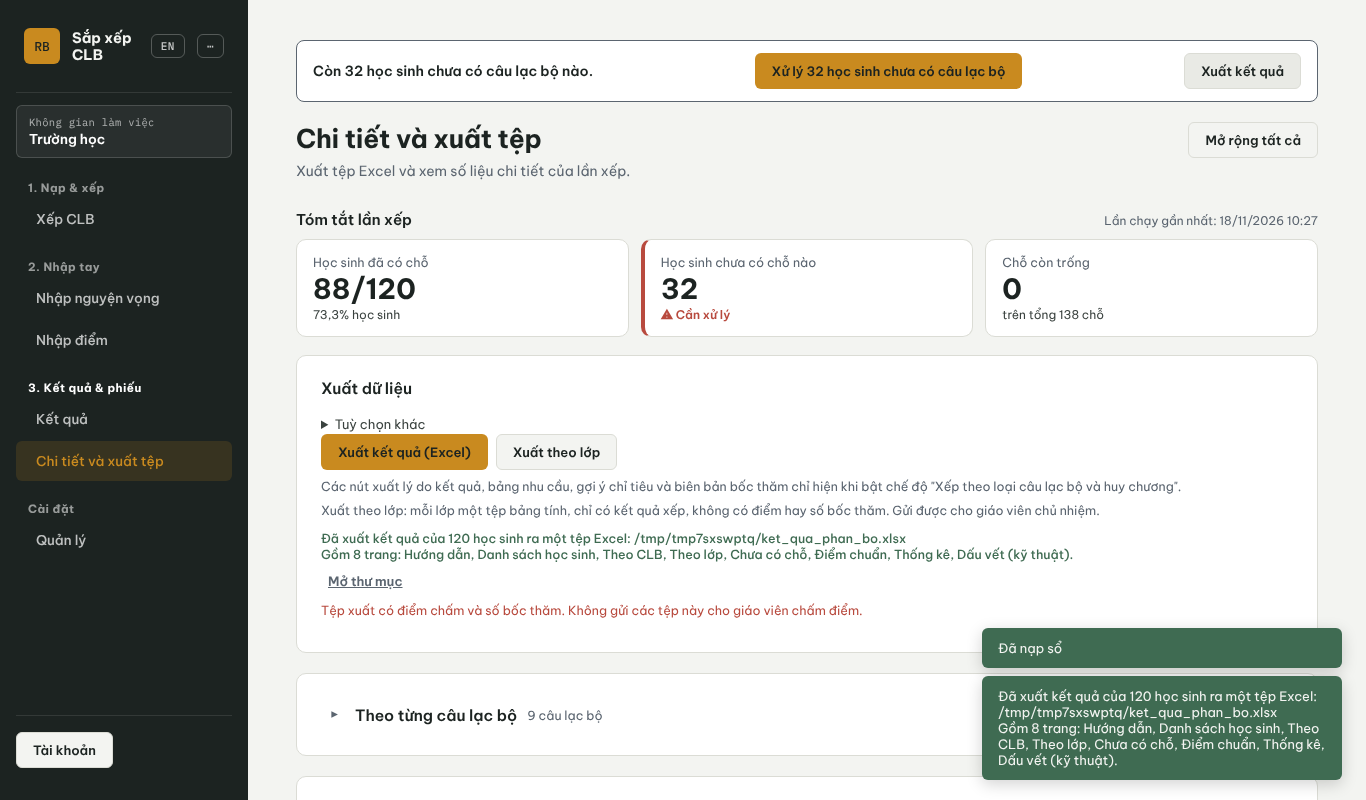
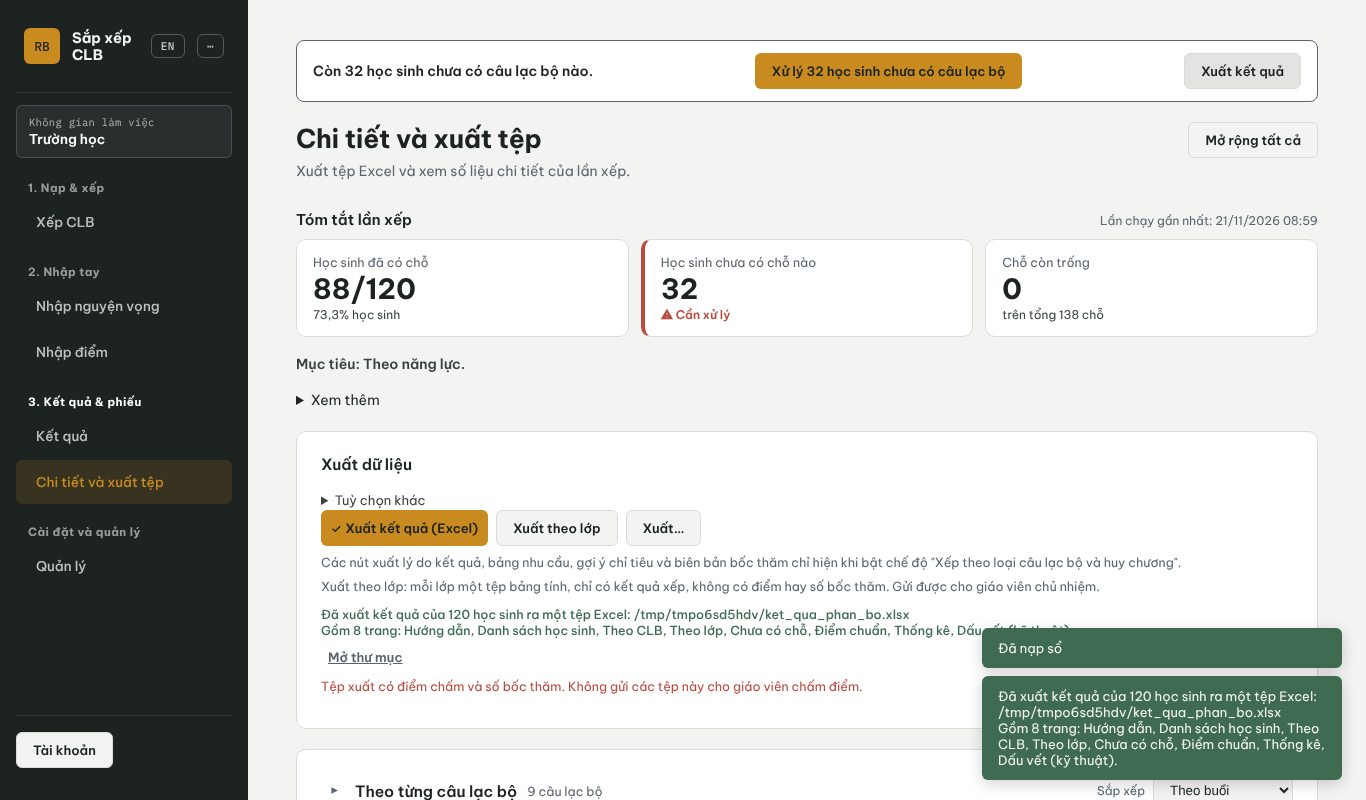
UX2-L9 (WIP, kiểm chứng chưa xong): hướng dẫn, bản đồ mã, 14 ảnh chụp lại, handoff
Claude-Session: https://claude.ai/code/session_01VfPzNrAmRdig3chvfTGSSu

diff --git a/docs/phien/claude__ux2-phan-hoi-nut__impl.md b/docs/phien/claude__ux2-phan-hoi-nut__impl.md
@@ -19,18 +19,25 @@ schema change (invariants 1, 6, 7). I do lots L1..L9 on lead's "GO L<n>" / "FIX"
 - [x] L5 #11 four-phase progress (UX2_PHA)                    PASSED (+fix1 backup warning)
 - [x] L6 #12 guided empty states (veTrangThaiRong)            PASSED (291deb8 + fix1 788709f)
 - [x] L7 #6 skeleton loading (hienKhungCho)                   PASSED (b00b9e3)
-- [x] L8 #10 smooth transitions (ux2QuanSatBang, ux2Abre)    DONE fef2862 + fix1 a71baec (only genuinely new rows), reported, checker verdict pending
-- [ ] L9 docs / screenshots / verify (spec: lead's branch file; ONLY lot left)
+- [x] L8 #10 smooth transitions (ux2QuanSatBang, ux2Abre)    PASSED (fef2862 + fix1 a71baec)
+- [~] L9 docs / screenshots / verify: content WRITTEN + committed as WIP, verification NOT finished (see Current state)
 
 ## Current state (overwrite each handoff)
-- Done: L1-L8 committed + pushed; last code commit a71baec (L8 fix1). origin/main (MT1) merged earlier (75f99ed).
-  Working tree clean after the handoff push.
-- In progress: nothing. Waiting for lead: checker verdict on L8 fix1 and "GO L9" (the only lot left).
-- Tests: related ones only (never the 22-min full suite); redirect pytest output to a scratchpad file.
-  Last (L8 fix1): 182 passed (all ux2_*, quan_ly_tab_con, a13_8, a14_lop, t3_l0, chay, fa_n2, cham_diem, hieu_ung, ux1_ket_qua),
-  ruff clean, kiem_nhanh.py --co-so origin/main --so-seed 20 7/7.
-- Open problems: admin-student rows are rebuilt on every redraw so focus/caret in .lop-sua is lost (pre-existing, told to lead,
-  would be a separate item touching loadAdminStudents).
+- L9 (lead said GO L9, base 816e92c) is IN PROGRESS. Written and committed (WIP commit, not yet reported "CODER DONE L9"):
+  HUONG_DAN_SU_DUNG.md new section (end of section 4), docs/ke_hoach/CLAUDE_CHI_TIET.md code-map row + tests/ count 360->369
+  (test_a13_12_tai_lieu.py demands the exact count; backticked names must be top-level `function`/def names, so no const / nested names),
+  14 screenshots re-shot with docs/ke_hoach/ux/chup_luong_chinh.py into docs/ke_hoach/ux/anh/ (all 14 that script writes changed),
+  CHANGELOG.md UX2-L9 entry, TIEN_DO.md row UX2-L9, Plan L9 ticked in the lead's branch file.
+- RUNNING when this handoff was written (background, started ~08:50 machine time): full UI sweep
+  `PLAYWRIGHT_BROWSERS_PATH=/opt/pw-browsers .venv/bin/python -m pytest -q tests/test_giao_dien_*.py tests/test_*ux2*.py`
+  -> output in the scratchpad file full.txt (ends with a line "done"). It takes ~20+ min. A fresh session may have lost that file:
+  then just rerun it. The L9 spec says: run it ONCE and report.
+- Still TO DO for L9: (1) read the sweep result and fix real failures (test first); (2) `.venv/bin/ruff check .`;
+  (3) `.claude/skills/soat-ma/scripts/kiem_nhanh.py --co-so origin/main --so-seed 20` must be 7/7; (4) tests/test_a13_12_tai_lieu.py,
+  test_vi_du_huong_dan.py, test_giao_dien_tieng_viet_sach.py (docs tests, were green); (5) amend CHANGELOG line "kết quả trong báo cáo L9"
+  with the numbers; (6) push; (7) send "CODER DONE L9 | base 816e92c head <sha>" to the lead with: sweep result, list of 14 re-shot PNGs.
+- Earlier lots: L1-L8 all PASSED by the checker. Open note for lead: admin-student rows are rebuilt on redraw so focus/caret in .lop-sua
+  is lost (pre-existing; separate item if wanted).
 
 ## Decisions and gotchas (keep short)
 - Helpers live in js/00_nen.js: datNutBan (busy), nutDaXong/goDauXong (check mark), baoLoiTaiO/xoaLoiTaiO/focusODau/baoLoiForm
@@ -63,14 +70,12 @@ schema change (invariants 1, 6, 7). I do lots L1..L9 on lead's "GO L<n>" / "FIX"
 - Stop hook "uncommitted changes": commit a clearly labelled WIP and push; only report "CODER DONE" when tests are green.
 
 ## Next steps (ordered)
-1. Wait for lead: checker verdict on L8 fix1 (FIX L8 -> test first, minimal fix, related tests, report "CODER DONE L6 fixN").
-2. On "GO L9": pull + merge origin/main, read the L9 block.
-3. L9 docs + screenshots (HUONG_DAN_SU_DUNG.md section,
-   re-shoot docs/ke_hoach/ux/anh/, CLAUDE_CHI_TIET.md code map, kiem_nhanh 7/7, CHANGELOG + TIEN_DO rows).
+1. Finish L9 verification exactly as listed under Current state (sweep result, ruff, kiem_nhanh, docs tests), then report to the lead.
+2. After that wait for the checker verdict on L9 (FIX L9 -> test first, minimal fix, related tests, report "CODER DONE L9 fixN").
 4. Each lot: failing test first -> minimal code -> related tests -> ruff -> kiem_nhanh 7/7 -> CHANGELOG + TIEN_DO row `UX2-L<n>` ->
    tick Plan in the lead's branch file only if lead asks (lead ticks) -> commit -> push -> message lead.
 
-## Files touched (whole job so far)
+## Files touched (whole job so far; L9 adds HUONG_DAN_SU_DUNG.md, docs/ke_hoach/CLAUDE_CHI_TIET.md, docs/ke_hoach/ux/anh/*.png x14)
 - js/00_nen.js: all shared helpers above + langchange listeners
 - js/02_van_hanh.js: btnRun busy via datNutBan; UX2_PHA / ux2TinhPha / ux2VePha; seed inline error
 - js/03_ket_qua.js, 05_quan_ly.js, 06_cham_diem.js, 04_nhap_tai_cho.js, 09_the_xem.js, 10_theo_doi.js, 14_giai_trinh.js: check-mark wiring,
@@ -88,3 +93,4 @@ schema change (invariants 1, 6, 7). I do lots L1..L9 on lead's "GO L<n>" / "FIX"
 | 2026-11-21 | Sonnet (coder) | L7 skeleton loading built + reported; handoff refreshed (hook fired again) | head b00b9e3 |
 | 2026-11-21 | Sonnet (coder) | L8 smooth transitions built + reported; merged origin/main (MT1); handoff refreshed | head fef2862 |
 | 2026-11-21 | Sonnet (coder) | L8 fix1 (animate only genuinely new rows) reported; handoff refreshed | head a71baec |
+| 2026-11-21 | Sonnet (coder) | L9 docs + 14 screenshots + code map written, WIP-committed; full UI sweep running; handoff (hook fired mid-L9) | WIP, see git log |

diff --git a/docs/ke_hoach/CLAUDE_CHI_TIET.md b/docs/ke_hoach/CLAUDE_CHI_TIET.md
@@ -28,7 +28,8 @@
 | `js/01_khung.js` (UX1A-L2), `js/17_viec_tiep_theo.js` (L1), `js/18_cai_dat.js` (L2b) | UX1 điều hướng và cài đặt: 4 nhóm thanh bên (`capNhatNhomDieuHuong`, nhóm tự ẩn theo thuộc tính hidden / vai giáo viên; mọi `.nav-item[data-tab]` giữ nguyên); thanh "Việc tiếp theo" `#viecTiepTheo` (`capNhatViecTiepTheo`, 5 trạng thái, nút phụ `#viecTiepTheoNut2`); Cài đặt = ba thẻ (`ux1aTaoThe` dùng chung ở trang Cài đặt, mục ⋯ "Cài đặt…" và bước 3 trình tạo workspace; `ux1aVeCaiDatSong` lưu ngay + Hoàn tác; sửa tại chỗ `ux1aVeSanSang`; việc sau khi xếp `ux1aVeSauXep` ở thẻ Chi tiết, chỉ chế độ huy chương) | `ux1aTaoThe`, `ux1aVeCaiDatSong`, `ux1aKiemSanSang`, `ux1aVeSauXep`, `capNhatViecTiepTheo` |
 | `api_quan_ly.py` (UX1A-L2b) | `get_san_sang_huy_chuong` (đọc: CLB thiếu loại, buổi thiếu CLB Tự do, thiếu điểm sàn) · `dat_loai_clb` (ghi một CLB, dùng lại hàm ghi_thuoc_tinh_clb của fa_daa); cả hai trong `phan_quyen.py` | `get_san_sang_huy_chuong`, `dat_loai_clb` |
 | `so_nhap.py`, `api_nhap.py` (UX1A-L5, L5b) | Chỉ thông điệp và lớp đọc: `xem_truoc_so_nhap` nói sổ có cột Huy chương/Loại mà chế độ tắt (mã cảnh báo so_nhap_canh_bao_huy_chuong_che_do_tat, cờ co_cot_huy_chuong của dữ liệu đọc); `so_nhap.chuan_hoa_chu_huy_chuong` đổi Vàng/Bạc/Đồng về 60/30/10 khi chế độ huy chương (fa_daa) bật; `tao_so_nhap_mau(output_path, kieu)` | `chuan_hoa_chu_huy_chuong`, `tao_so_nhap_mau` |
-| `tests/` | 360 tệp `test_*.py` (đếm 21/11/2026, nhánh claude/mt1-xuat-so-nhap-loai; UX1A thêm 5 tệp `test_giao_dien_ux1_*.py`, `test_ux1_*.py`; UX1B thêm `test_ux1b_*.py`, `test_giao_dien_ux1b_*.py`; XP1 thêm `test_xp1_*.py`, `test_giao_dien_xp1_*.py`; tích hợp UX1I thêm `test_ux1i_*.py`; MT1 và MT1-X1 thêm `test_mt1_*.py`) | `test_pipeline_core.py`, `test_nhieu_buoi.py::TestTrungKhit`, `test_toi_uu_on_dinh.py`, `test_boc_tham.py`, … |
+| `js/00_nen.js`, `js/02_van_hanh.js`, `js/07_ngon_ngu.js`, `js/08_khoi_dong.js`, `js/16_tai_khoan.js`, `index.html`, `i18n.js`, `style.css` (khối "UX2") | UX2 phản hồi tương tác (chỉ giao diện, không đụng thuật toán / api / CSV / schema): nút bận + chống bấm đúp MỘT chỗ (`datNutBan`, dùng bởi `chayNut`, `khiBan` và nút Chạy), dấu ✓ sau khi lưu / xuất (`nutDaXong`, `goDauXong`, tuỳ chọn xongKhi của `chayNut` / `khiBan`, tham số thứ 4 của `chayXuat`), lỗi ngay tại ô (`baoLoiTaiO`, `xoaLoiTaiO`, `baoLoiForm`, `focusODau`; chữ truyền dạng hàm để vẽ lại khi đổi ngôn ngữ), 4 pha tiến trình chỉ hiển thị (`ux2TinhPha` thuần, `ux2VePha`, `ux2DatPha`; bảng UX2_PHA phải phủ mọi tên bước trong run_pipeline, rollback không bao giờ là "xong"), trạng thái rỗng có hướng dẫn + một nút chính (`veTrangThaiRong`, `ux2VeRong`, `ux2DiToi`, `ux2TenThe`; cấu hình UX2_RONG_* ở từng tệp, tên thẻ lấy từ nav, khác nhau theo vai), khung chờ bảng đang tải (`hienKhungCho`, ngưỡng 300 ms), hàng mới trượt vào (`ux2QuanSatBang`; khoá hàng UX2_KHOA_HANG) | Sự kiện: "langchange" (mọi chữ động phải vẽ lại ở đây) và "ux2vai" (do hàm ganVai (js/16_tai_khoan.js) phát khi đổi vai). Khối CSS đánh dấu "UX2 — L1…L8"; vùng bấm 44 px bằng `::after` trong suốt, vòng focus MỘT nơi (biến --focus-ring). Hàm giúp: `ux2ChoPhepChuyenDong` (tắt hiệu ứng / giảm chuyển động thì không động). Test: xem dòng tests/ |
+| `tests/` | 369 tệp `test_*.py` (đếm 21/11/2026, nhánh claude/ux2-phan-hoi-nut, đã gộp main có MT1; UX1A thêm 5 tệp `test_giao_dien_ux1_*.py`, `test_ux1_*.py`; UX1B thêm `test_ux1b_*.py`, `test_giao_dien_ux1b_*.py`; XP1 thêm `test_xp1_*.py`, `test_giao_dien_xp1_*.py`; tích hợp UX1I thêm `test_ux1i_*.py`; MT1 và MT1-X1 thêm `test_mt1_*.py`; UX2 thêm 9 tệp `test_giao_dien_ux2_*.py` (ban, xong, nut, loi_o, tien_trinh, rong, khung, chuyen_canh) và `test_ux2_tien_trinh.py`) | `test_pipeline_core.py`, `test_nhieu_buoi.py::TestTrungKhit`, `test_toi_uu_on_dinh.py`, `test_boc_tham.py`, … |
 | `du_lieu_test/` (gồm `mo_phong_fa_daa.py`, FA-10: chỉ in bảng số, nhãn "SỐ LIỆU MÔ PHỎNG"), `mau_csv/`, `docs/`, `BAN_GIAO.md` | Bộ dữ liệu mô phỏng, script đo, mẫu nhập, tài liệu cơ chế, nhật ký 25 lỗi đã sửa | |
 | `bao_cao_tong_hop.py` (UX1B-L4-B) · `js/19_ux1b_gv.js` | "Báo cáo tổng hợp" cho ban giám hiệu (chỉ số gộp, không tên/mã/điểm) và khối "Theo lớp và báo cáo" ở thẻ Kết quả | `gom_du_lieu` (danh sách trắng khoá) · `dung_html` (thuần) · `dung_pdf` (UX1I-I3, qua `xuat_pdf.py`); API `export_bao_cao_tong_hop` và `export_bao_cao_tong_hop_pdf` (`api_xuat.py`, `QUYEN` giao_vien, một dòng nhật ký tự động); JS `ux1bMoCaiDat` · `ux1bChonLop` |
 | `api_quan_ly.py` `_huy_chuong_ca_so_sai` (UX1B-L5c) | MỘT nơi giữ ngưỡng "cả sổ sai huy chương" (n_sai × 2 ≥ số học sinh có nguyện vọng); `get_data_health_report` (trường gop_huy_chuong) và `get_san_sang_huy_chuong` (trường huy_chuong_ca_so) cùng dùng | chỉ đổi cách HIỂN THỊ cảnh báo, danh sách cảnh báo và số mục nghiêm trọng giữ nguyên |

diff --git a/HUONG_DAN_SU_DUNG.md b/HUONG_DAN_SU_DUNG.md
@@ -132,6 +132,16 @@ Sửa tay ở mục **Nâng cao** thì không thẻ nào sáng; hiện dòng xá
 không hiện số bốc thăm, cũng không hiện em đó xếp CLB này là nguyện vọng thứ
 mấy. Người chấm không biết cho điểm này thì ai được lợi.
 
+### Phần mềm báo lại thế nào khi bấm, khi sai, khi chờ
+
+- **Nút đang làm việc.** Bấm một nút lưu, xuất hay Chạy thì nút khoá lại ngay, hiện vòng xoay kèm chữ "Đang xử lý…" (nút Chạy ghi "Đang xếp…"), rộng bằng lúc chưa bấm. Bấm đúp chỉ gửi MỘT lần. Làm xong, nút trở về như cũ.
+- **Dấu ✓.** Lưu hoặc xuất xong thì đúng nút vừa bấm hiện dấu ✓ khoảng một giây. Có lỗi thì không có dấu ✓ mà có thông báo.
+- **Lỗi nằm ngay dưới ô sai.** Ô nhập sai (hạt giống không phải số nguyên, thiếu mã, tên hay chỉ tiêu ở biểu mẫu CLB, thiếu mã hay họ tên khi thêm học sinh, điểm không phải số ở bảng chấm điểm) được viền đỏ nhạt, có dòng chữ giải thích ngay dưới, và con trỏ nhảy về ô sai đầu tiên. Gõ lại vào ô thì dòng lỗi tự mất. Lỗi chung, không thuộc ô nào, vẫn hiện thành thông báo.
+- **Bốn pha khi chạy sắp xếp.** Trên thẻ **Xếp CLB**, hàng bốn ô **Kiểm tra, Xếp, Ghi, Xuất** cho biết đang ở đâu. Trong lúc chạy cả bốn cùng ghi "Đang chạy…" (phần mềm chỉ biết từng bước khi chạy xong, nên không có phần trăm). Xong thì mỗi ô ghi **Xong**. Gặp lỗi thì ô đó ghi **Lỗi**, các ô sau ghi **Chưa tới**; nếu có hoàn tác thì có thêm một dòng nói dữ liệu đã trở về như trước khi chạy. Sao lưu hỏng mà lần chạy vẫn thành công thì ô **Kiểm tra** ghi **Cảnh báo** (màu vàng) kèm lý do ở dòng bên dưới: kết quả vẫn dùng được, nhưng lần này không có bản sao lưu. Danh sách chi tiết từng bước vẫn nằm ở mục **Chi tiết**.
+- **Chưa có gì để hiện.** Hộp trống nói rõ chưa có gì, nên làm gì, và có MỘT nút dẫn đến đúng việc (ví dụ **Đến thẻ "Xếp CLB"**; nút đưa con trỏ vào đúng ô cần gõ). Giáo viên không thấy nút của quản trị mà được nhắc nhờ quản trị viên.
+- **Bảng đang tải.** Nếu bảng tải lâu hơn khoảng một phần ba giây, các vạch xám giữ chỗ hiện ra rồi biến mất khi có dữ liệu. Tải nhanh thì không hiện gì. Hàng thật sự mới (vừa thêm) trượt vào nhẹ; vẽ lại cùng dữ liệu thì bảng đứng yên.
+- **Nút "Hiệu ứng" ở thanh bên** (và cài đặt giảm chuyển động của hệ điều hành) tắt mọi chuyển động trên: vòng xoay thành vòng tĩnh, hàng không trượt, vạch chờ không nhấp nháy, mục "Nâng cao" mở tức thì. Nghĩa vẫn đủ nhờ chữ: nút vẫn ghi "Đang xử lý…", ô vẫn ghi "Đang chạy…".
+
 ---
 
 ## 5. Sổ nhập CLB — từng cột nghĩa là gì

diff --git a/CHANGELOG.md b/CHANGELOG.md
@@ -1,5 +1,12 @@
 # CHANGELOG
 
+## 2026-11-21 — UX2-L9: tài liệu, ảnh chụp, kiểm chứng cả mục UX2
+
+- `HUONG_DAN_SU_DUNG.md`: mục mới "Phần mềm báo lại thế nào khi bấm, khi sai, khi chờ" (cuối §4): nút bận + chống bấm đúp, dấu ✓, lỗi ngay tại ô, bốn pha (gồm "Cảnh báo" khi sao lưu hỏng mà vẫn chạy xong), hộp rỗng có nút theo vai, khung chờ, hiệu ứng trượt, nút "Hiệu ứng" tắt mọi chuyển động. Tài liệu vận hành; không có kết luận cho báo cáo khoa học.
+- `docs/ke_hoach/CLAUDE_CHI_TIET.md` (Bản đồ mã): dòng mới cho các hàm UX2 (`datNutBan`, `nutDaXong`, `goDauXong`, `baoLoiTaiO`, `xoaLoiTaiO`, `baoLoiForm`, `focusODau`, `ux2TinhPha`, `ux2VePha`, `ux2DatPha`, `veTrangThaiRong`, `ux2DiToi`, `hienKhungCho`, `ux2QuanSatBang`; bảng UX2_PHA, UX2_KHOA_HANG; sự kiện "langchange" / "ux2vai"); dòng `tests/`: 360 → 369 tệp (9 tệp UX2; `test_a13_12_tai_lieu.py` đòi số khớp thật).
+- Ảnh chụp lại bằng `docs/ke_hoach/ux/chup_luong_chinh.py` (Chromium, dữ liệu MÔ PHỎNG, hạt giống 42): đủ 14 ảnh script này ghi vì cả thanh bên (hàng 44 px), nút (lớp trạng thái, vòng focus) và thẻ Xếp CLB (4 pha) đổi giao diện: `01_trang_dau`, `02_co_dl_admin`, `02_co_dl_chua_co_cho`, `02_co_dl_fallback`, `02_co_dl_others`, `02_co_dl_results`, `03_tra_cuu_HS004`, `05_sau_chon_tep`, `06_sau_nhap`, `07_sau_chay`, `08_tieu_chi`, `09_gvcn_ket_qua_lop`, `10_ws_menu`, `11_cai_dat` (`.png` trong `docs/ke_hoach/ux/anh/`). Không đụng `04_phieu.png`, `phieu_mau.pdf` và các thư mục `danh_gia_*` (ảnh của báo cáo UX1).
+- Kiểm chứng: `kiem_nhanh.py --co-so origin/main --so-seed 20` 7/7; `ruff check .` sạch; toàn bộ `tests/test_giao_dien_*.py` + `tests/test_*ux2*.py` chạy một lượt (kết quả trong báo cáo L9).
+
 ## 2026-11-21 — UX2-L8: chuyển cảnh mượt (hàng mới trượt vào, `<details>` mở theo chiều cao)
 
 - `js/00_nen.js`: `ux2QuanSatBang(dsId)` (MutationObserver trên 4 `tbody`: `resultsTableBody`, `adminStudentTableBody`, `adminClubTableBody`, `historyTableBody`; gọi ở `init()` của `08_khoi_dong.js`). Hàng dữ liệu mới → tối đa 20 hàng đầu gắn lớp `ux2-vao` (180 ms, trễ xếp chồng ≤ 19 ms nên tổng ≤ 200 ms), tự gỡ khi xong. Không gắn cho hàng khung chờ L7, không gắn từ hàng thứ 21 (bảng 800 dòng), không gắn khi tắt hiệu ứng / giảm chuyển động. Hàng bấm được ngay (không `pointer-events:none`, không chờ).

diff --git a/docs/ke_hoach/TIEN_DO.md b/docs/ke_hoach/TIEN_DO.md
@@ -232,4 +232,5 @@ Claude Code cập nhật tệp này sau mỗi mục. Một dòng mỗi mục.
 | UX2-L6 (trạng thái rỗng có hướng dẫn + một nút chính) | xong, chờ checker | 2026-11-21 | js/00_nen.js, 03, 05, 06, 09, index.html, i18n.js, style.css | tests/test_giao_dien_ux2_rong.py | chỉ giao diện; kiem_nhanh 7/7 |
 | UX2-L7 (khung chờ bảng đang tải) | xong, chờ checker | 2026-11-21 | js/00_nen.js, 02, 03, 05, style.css | tests/test_giao_dien_ux2_khung.py | chỉ giao diện; kiem_nhanh 7/7 |
 | UX2-L8 (chuyển cảnh mượt: hàng trượt vào, details mở theo chiều cao) | xong, chờ checker | 2026-11-21 | js/00_nen.js, js/08_khoi_dong.js, style.css | tests/test_giao_dien_ux2_chuyen_canh.py | chỉ giao diện; kiem_nhanh 7/7 |
+| UX2-L9 (tài liệu, ảnh chụp lại, bản đồ mã, kiểm chứng) | xong, chờ checker | 2026-11-21 | HUONG_DAN_SU_DUNG.md, docs/ke_hoach/CLAUDE_CHI_TIET.md, docs/ke_hoach/ux/anh/*.png (14 ảnh) | tests/test_a13_12_tai_lieu.py (số tệp test 369) | chỉ tài liệu + ảnh; kiem_nhanh 7/7 |
 | MT1 (gom): bảng đặt loại CLB trong Cài đặt | xong (chờ checker + Truong xem ảnh) | 2026-11-21 | js/18_cai_dat.js, i18n.js, style.css | tests/test_giao_dien_mt1_bang_loai.py, tests/test_giao_dien_ux1_cai_dat.py |

diff --git a/docs/phien/claude__ux2-phan-hoi-nut.md b/docs/phien/claude__ux2-phan-hoi-nut.md
@@ -90,7 +90,7 @@ Lot L8 ✅ PASSED (checker NO BUGS, head a71baec, 1 fix round) — #10 smooth tr
 - [x] Test: animation/transition present with effects on; none with `tat-hieu-ung` / reduced motion; accordion
       content still visible and readable after open (no clipped text).
 Lot L9 — docs, screenshots, verify
-- [ ] `HUONG_DAN_SU_DUNG.md` short section; re-shoot changed `docs/ke_hoach/ux/anh/` screens; code map in
+- [x] `HUONG_DAN_SU_DUNG.md` short section; re-shoot changed `docs/ke_hoach/ux/anh/` screens; code map in
       `CLAUDE_CHI_TIET.md`; `kiem_nhanh.py` 7/7; CHANGELOG + TIEN_DO rows per lot.
 
 ## Acceptance (kiem_nhan)
